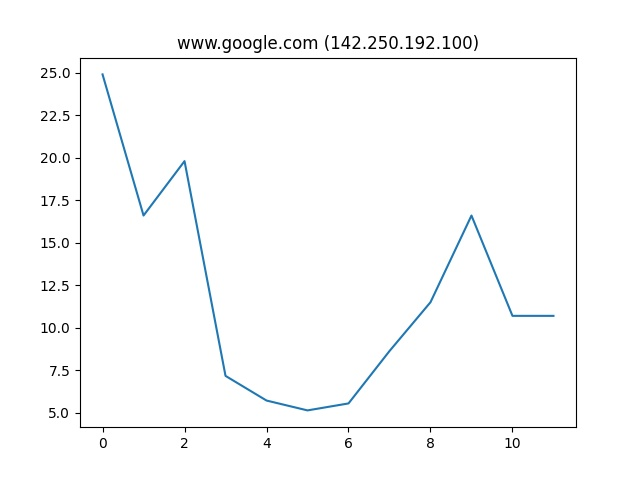
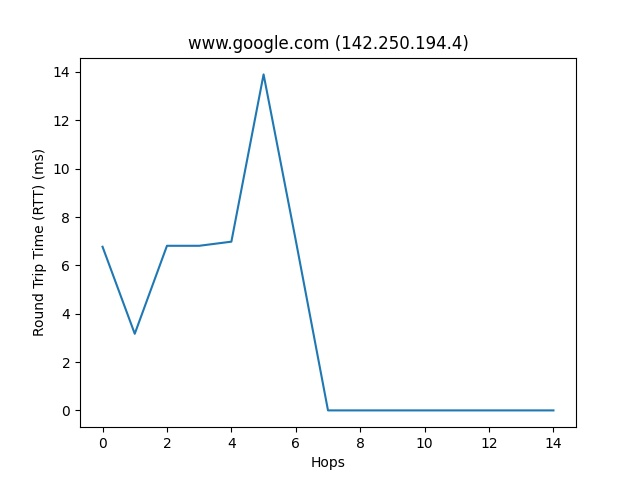
partial report

diff --git a/Assignment-1/traceroute.py b/Assignment-1/traceroute.py
@@ -6,7 +6,7 @@ import socket
 import time
 import matplotlib.pyplot as plt
 
-MAX_HOPS = 30
+MAX_HOPS = 15
 TIMEOUT = 0.4
 HOST = ''
 # HOST = socket.gethostbyname(socket.gethostname())
@@ -47,6 +47,8 @@ def tr(host_addr, max_hops = MAX_HOPS, timeout = TIMEOUT):
 def graph(data, dest_name, dest_addr):
     plt.plot(data)
     plt.title(dest_name + " (" + dest_addr + ")")
+    plt.xlabel("Hops")
+    plt.ylabel("Round Trip Time (RTT) (ms)")
     plt.savefig("output.jpg")
     plt.show()    
 
@@ -78,7 +80,7 @@ if __name__ == "__main__":
     data = []
     
     for i, tup in enumerate(tr(host_addr)):
-        print("{}\t{}\t\t{}".format(i+1, tup[1], tup[0]))
+        print("{}\t{}\t\t{}".format(i+1, tup[0], tup[1]))
         if(tup[1] == "  *  "):
             data.append(0)
         else:
